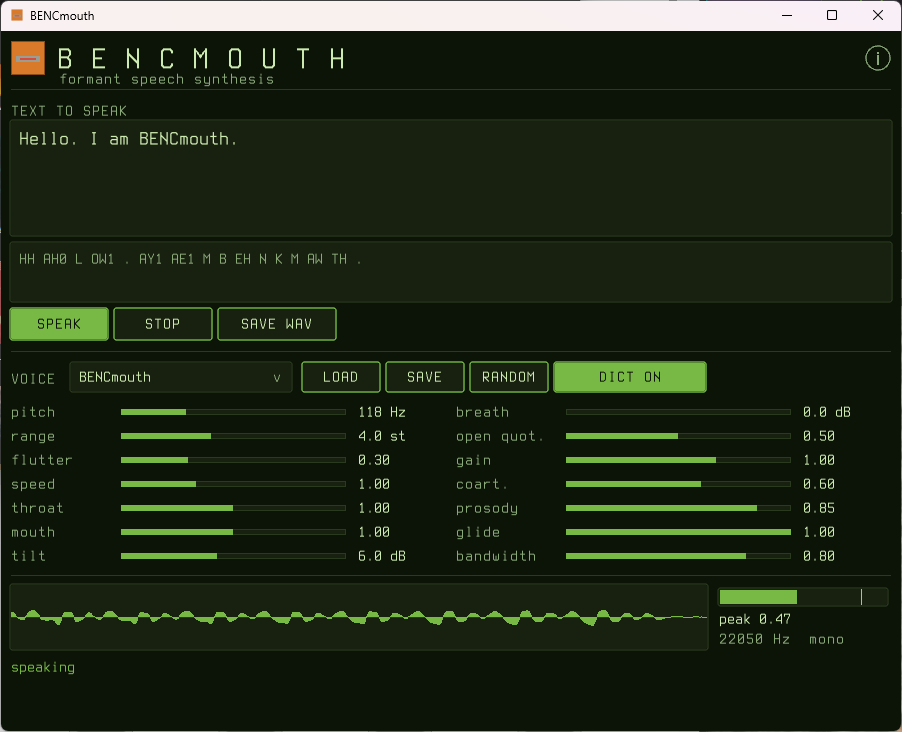
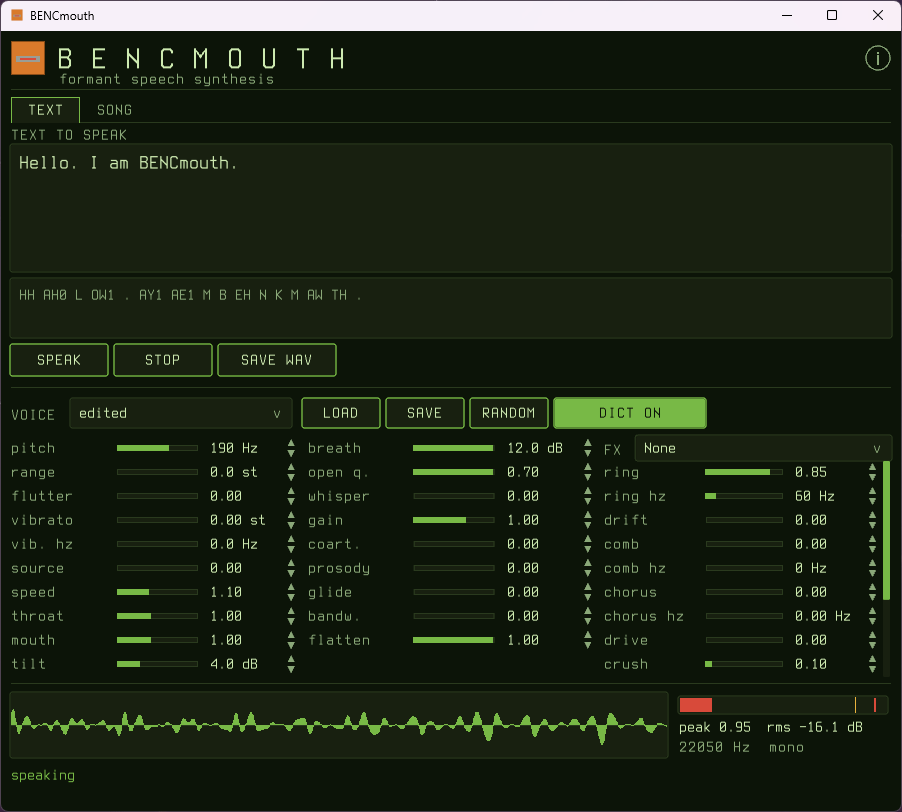
The new screenshot, and release notes for 0.2.0
Also corrects a claim that had gone stale twice over: the engine has not
held 15 KB of state since the effects arrived. 19 KB without that stage,
75 KB with it, because the echo and the reverb are delay lines.

Claude-Session: https://claude.ai/code/session_01PTdcZVPkypgGm8K2M6ywdn

diff --git a/.github/release-notes.md b/.github/release-notes.md
@@ -4,6 +4,49 @@ An original work in the spirit of S.A.M., built from the published literature on
 cascade/parallel formant synthesis rather than from any existing implementation.
 See `ref/README.md` for provenance, including the sources deliberately not consulted.
 
+## New in 0.2.0
+
+It sings, it has an effects rack, and there are twenty-five voices instead of ten.
+
+**Song mode.** A second tab in the GUI: a score of phonemes with `[note]` and `[hold]`
+in it, a word-to-phoneme translator with an INSERT button so you do not have to know
+ARPABET by heart, a reference for the notation, and save/load of `.bmsong` files. Each
+tab keeps its own voice, because singing wants prosody off and a little vibrato and
+speech wants the opposite. On the command line, `bm -S songs/daisy.bmsong -a`.
+
+**A post-synthesis effects stage**, kept in its own struct beside the voice rather than
+bolted onto it — an effect is not a property of a speaker, and keeping them apart is what
+lets any chain go on any voice. Nine controls: ring modulation with a slowly drifting
+carrier, a resonant comb, a three-tap chorus, drive, sample-rate crush, echo, reverb, and
+an output level. Fifteen presets from `Metal` to `Hall`. All of it compiles away under
+`-DBM_WITH_EFFECTS=0`, and an all-zero chain is a bit-for-bit bypass, which is what lets
+the pinned voice survive a new stage in the signal path.
+
+**Twenty-five voices.** The classic-era set — deep, professional, child, whispering,
+unstable — plus ten that carry an effects chain and arrive with it: `Zarvek`, `Sentry`,
+`Aggressor`, `Carillon`, `Harmonium`, `Diver`, `Foreman`, `Emissary`, `Trinode`, `Gravel`.
+`CLASSIC-VOICES.md` covers what the engine can reach, what it cannot, and why.
+
+**The excitation is selectable.** `source` crossfades the vocal folds into a harmonic
+pipe or the measured partial series of a church bell. The vocal tract is untouched, so a
+bell-sourced voice still has formants and still says the words — which is exactly what
+the classic instrument voices were.
+
+**New voice parameters**, all defaulting to off: `whisper` (voicing traded for
+turbulence), `vibrato` / `vibrato_rate`, `flatten` (one pitch for the whole utterance —
+`BENCmouth Monotone` was not actually monotone before this), and `source`.
+
+**The GUI grew up.** Sliders whose readouts you can type into, with arrows that step by
+the precision shown. A voice list that is sorted and scrolls. An effects column that
+scrolls. Selectable, copyable read-only boxes. And a meter that shows RMS as well as
+peak, because this synthesizer routinely makes them disagree — `Aggressor` peaks four
+times lower than `Gravel` and is a decibel *quieter*, since drive collapses the crest
+factor. `bm` reports both figures too.
+
+**Voice files are now `.bmvoice`**, matching `.bmsong`. Contents are unchanged and the
+loader never looked at the extension, so anything you saved under the old name still
+loads with `-f`.
+
 ## What is in the box
 
 Two archives per desktop platform. The CLI on its own is small and has no icon,
@@ -53,7 +96,8 @@ the binary.
 ## Notable
 
 - **No dynamic allocation, no libm in the core, no I/O below the host layer.** The
-  engine holds ~15 KB of state in caller-supplied storage.
+  engine holds all its state in caller-supplied storage: 19 KB without the effects
+  stage, 75 KB with it, since the echo and the reverb are delay lines.
 - **BENCmouth Retro is pinned.** Every naturalness feature is a voice parameter whose
   off setting reproduces the older behaviour, and a golden-reference test holds the
   original voice to it.

diff --git a/README.md b/README.md
@@ -16,7 +16,8 @@ public-domain 1976 US Naval Research Laboratory report. See `ref/README.md` for 
 provenance.
 
 **No dynamic allocation. No libm in the core. No I/O below the host layer.** The engine
-holds about 15 KB of state in caller-supplied storage, which means it drops into a
+holds all its state in caller-supplied storage — 19 KB without the effects stage, 75 KB
+with it, since two of those effects are delay lines — which means it drops into a
 microcontroller, an audio callback, or a WASM module unchanged.
 
 ![the BENCmouth GUI](assets/gui.png)
